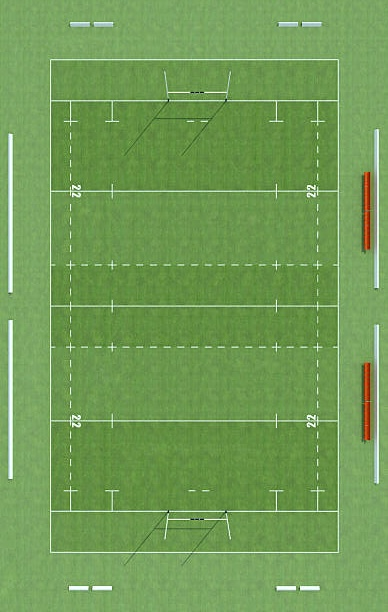
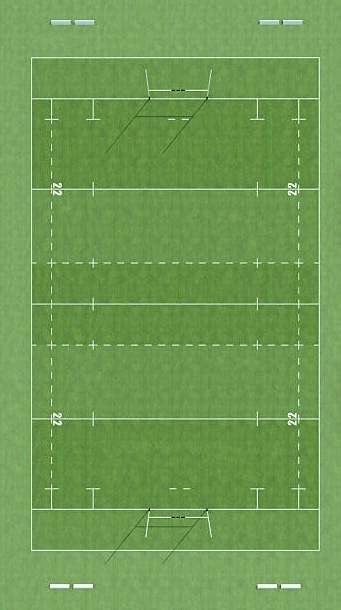
changed second row in seeds, and rugby positions 60%index  done

diff --git a/app/assets/stylesheets/pages/_rugby_positions.scss b/app/assets/stylesheets/pages/_rugby_positions.scss
@@ -1,0 +1,187 @@
+#bg-container-rugby {
+  background-image: url('rugby_pitch.jpg');
+  height: 100vh;
+  width: 100vw;
+  overflow: hiddden;
+  position: fixed;
+  background-size: cover;
+}
+
+#r1 {
+  position: absolute;
+  height: 77px;
+  width: 57px;
+  background-size: cover;
+  top: 16%;
+  right: 56%;
+  box-shadow: 0 8px 8px 0 rgba(2, 2, 2, 2);
+  border: solid 2px black;
+  border-radius: 10px;
+}
+
+#r2 {
+  position: absolute;
+  background-size: cover;
+  height: 77px;
+  width: 57px;
+  top: 16%;
+  right: 40%;
+  box-shadow: 0 8px 8px 0 rgba(2, 2, 2, 2);
+  border: solid 2px black;
+  border-radius: 10px;
+}
+
+#r3 {
+  position: absolute;
+  background-size: cover;
+  height: 77px;
+  width: 57px;
+  top: 16%;
+  right: 24%;
+  box-shadow: 0 8px 8px 0 rgba(2, 2, 2, 2);
+  border: solid 2px black;
+  border-radius: 10px;
+}
+
+#r4 {
+  position: absolute;
+  background-size: cover;
+  height: 77px;
+  width: 57px;
+  top: 28%;
+  right: 48%;
+  box-shadow: 0 8px 8px 0 rgba(2, 2, 2, 2);
+  border: solid 2px black;
+  border-radius: 10px;
+}
+
+#r5 {
+  position: absolute;
+  background-size: cover;
+  height: 77px;
+  width: 57px;
+  top: 52%;
+  right: 42%;
+  box-shadow: 0 8px 8px 0 rgba(2, 2, 2, 2);
+  border: solid 2px black;
+  border-radius: 10px;
+}
+
+#r6 {
+  position: absolute;
+  background-size: cover;
+  height: 77px;
+  width: 57px;
+  top: 37%;
+  right: 65%;
+  box-shadow: 0 8px 8px 0 rgba(2, 2, 2, 2);
+  border: solid 2px black;
+  border-radius: 10px;
+}
+
+#r7 {
+  position: absolute;
+  background-size: cover;
+  height: 77px;
+  width: 57px;
+  top: 31%;
+  right: 23%;
+  box-shadow: 0 8px 8px 0 rgba(2, 2, 2, 2);
+  border: solid 2px black;
+  border-radius: 10px;
+}
+
+#r8 {
+  position: absolute;
+  background-size: cover;
+  height: 77px;
+  width: 57px;
+  top: 17%;
+  right: 2%;
+  box-shadow: 0 8px 8px 0 rgba(2, 2, 2, 2);
+  border: solid 2px black;
+  border-radius: 10px;
+}
+
+#r9 {
+  position: absolute;
+  background-size: cover;
+  height: 77px;
+  width: 57px;
+  top: 17%;
+  right: 82%;
+  box-shadow: 0 8px 8px 0 rgba(2, 2, 2, 2);
+  border: solid 2px black;
+  border-radius: 10px;
+}
+
+#r10 {
+  position: absolute;
+  background-size: cover;
+  height: 77px;
+  width: 57px;
+  top: 10%;
+  right: 42%;
+  box-shadow: 0 8px 8px 0 rgba(2, 2, 2, 2);
+  border: solid 2px black;
+  border-radius: 10px;}
+
+#r11 {
+  position: absolute;
+  background-size: cover;
+  height: 77px;
+  width: 57px;
+  top: 55%;
+  right: 56%;
+  box-shadow: 0 8px 8px 0 rgba(2, 2, 2, 2);
+  border: solid 2px black;
+  border-radius: 10px;
+}
+
+#r12 {
+  position: absolute;
+  background-size: cover;
+  height: 77px;
+  width: 57px;
+  top: 55%;
+  right: 27%;
+  box-shadow: 0 8px 8px 0 rgba(2, 2, 2, 2);
+  border: solid 2px black;
+  border-radius: 10px;
+}
+
+#r13 {
+  position: absolute;
+  background-size: cover;
+  height: 77px;
+  width: 57px;
+  top: 62%;
+  right: 17%;
+  box-shadow: 0 8px 8px 0 rgba(2, 2, 2, 2);
+  border: solid 2px black;
+  border-radius: 10px;
+}
+
+#r14 {
+  position: absolute;
+  background-size: cover;
+  height: 77px;
+  width: 57px;
+  top: 70%;
+  right: 7%;
+  box-shadow: 0 8px 8px 0 rgba(2, 2, 2, 2);
+  border: solid 2px black;
+  border-radius: 10px;
+}
+
+#r15 {
+  position: absolute;
+  background-size: cover;
+  height: 77px;
+  width: 57px;
+  top: 71%;
+  right: 40%;
+  box-shadow: 0 8px 8px 0 rgba(2, 2, 2, 2);
+  border: solid 2px black;
+  border-radius: 10px;
+}

diff --git a/app/assets/stylesheets/pages/_index.scss b/app/assets/stylesheets/pages/_index.scss
@@ -3,4 +3,5 @@
 @import "profile";
 @import "bball_positions";
 @import "football_positions";
-@import "amer_football_positions"
+@import "amer_football_positions";
+@import "rugby_positions";

diff --git a/db/seeds.rb b/db/seeds.rb
@@ -246,7 +246,7 @@ RUGBY_UNION = {
       }
     },
     "3" => {
-      positions_name: "Second Row",
+      positions_name: "Loosehead Lock (Second Row)",
       positions_tag: "SR",
       description_attributes: {
         overview_of_position: "Second-row forward, key figure in lineouts and scrums",
@@ -263,7 +263,7 @@ RUGBY_UNION = {
       }
     },
     "4" => {
-      positions_name: "Second Row",
+      positions_name: "Tighthead lock (Second Row)",
       positions_tag: "SR",
       description_attributes: {
         overview_of_position: "Second-row forward, key figure in lineouts and scrums",
